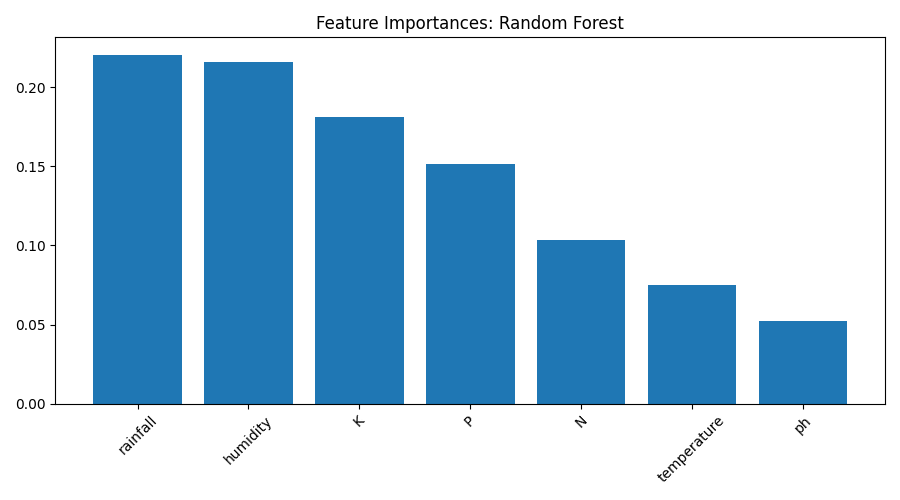
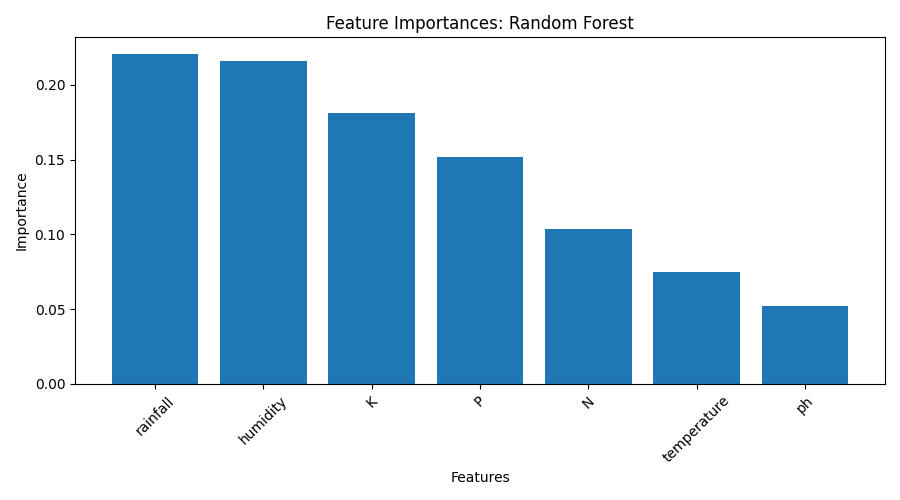
feat: add new models

diff --git a/model/train_model.py b/model/train_model.py
@@ -84,8 +84,21 @@ def plot_eda(df: pd.DataFrame) -> None:
     plt.figure(figsize=(10, 8))
     sns.heatmap(df[numeric_cols].corr(), annot=True, cmap="coolwarm")
     plt.title("Correlation Matrix")
+    plt.xlabel("Features")
+    plt.ylabel("Features")
     plt.tight_layout()
     plt.savefig(os.path.join(PLOTS_DIR, "correlation.png"))
+    plt.close()
+
+    # Boxplot for all features
+    plt.figure(figsize=(12, 7))
+    sns.boxplot(data=df[numeric_cols])
+    plt.title("Boxplot of Features")
+    plt.xlabel("Features")
+    plt.ylabel("Value")
+    plt.xticks(rotation=30)
+    plt.tight_layout()
+    plt.savefig(os.path.join(PLOTS_DIR, "boxplot_features.png"))
     plt.close()
 
 
@@ -186,6 +199,7 @@ def train() -> None:
         plt.figure(figsize=(9, 5))
         sns.barplot(x=list(results.keys()), y=list(results.values()), color="seagreen")
         plt.ylabel("Accuracy")
+        plt.xlabel("Model")
         plt.title("Model Accuracy Comparison")
         plt.xticks(rotation=20)
         plt.ylim(0, 1)
@@ -203,6 +217,8 @@ def train() -> None:
             ordered_features = np.array(FEATURE_COLUMNS)[indices]
             plt.xticks(range(len(importances)), ordered_features, rotation=45)
             plt.title(f"Feature Importances: {name}")
+            plt.xlabel("Features")
+            plt.ylabel("Importance")
             plt.tight_layout()
             filename = f"feature_importance_{name.replace(' ', '_').lower()}.png"
             plt.savefig(os.path.join(PLOTS_DIR, filename))
@@ -225,7 +241,54 @@ def train() -> None:
         .unstack(fill_value=0)
         .to_dict("index")
     )
+
     joblib.dump(cluster_map, os.path.join(ARTIFACTS_DIR, "cluster_map.pkl"))
+
+    # Visualize cluster_map as a heatmap for interpretability
+    try:
+        import pandas as pd
+        cluster_map_df = pd.DataFrame(cluster_map).T.fillna(0)
+        plt.figure(figsize=(min(18, 2+0.5*len(cluster_map_df.columns)), 1+0.4*len(cluster_map_df)))
+        sns.heatmap(cluster_map_df, annot=True, fmt=".2f", cmap="YlGnBu")
+        plt.title("Cluster-Label Distribution Heatmap")
+        plt.xlabel("Label (Crop)")
+        plt.ylabel("Cluster")
+        plt.tight_layout()
+        plt.savefig(os.path.join(PLOTS_DIR, "cluster_map_heatmap.png"))
+        plt.close()
+    except Exception as exc:
+        print(f"Could not generate cluster_map heatmap: {exc}")
+
+    # Visualize KMeans clusters using first two principal components (if >2 features)
+    try:
+        from sklearn.decomposition import PCA
+        pca = PCA(n_components=2)
+        X_pca = pca.fit_transform(X_full_scaled)
+        plt.figure(figsize=(10, 7))
+        scatter = plt.scatter(X_pca[:, 0], X_pca[:, 1], c=clusters, cmap="tab20", alpha=0.7)
+        plt.title(f"KMeans Clusters (n={n_clusters})")
+        plt.xlabel("Principal Component 1")
+        plt.ylabel("Principal Component 2")
+        legend1 = plt.legend(*scatter.legend_elements(), title="Cluster")
+        plt.gca().add_artist(legend1)
+        plt.tight_layout()
+        plt.savefig(os.path.join(PLOTS_DIR, "kmeans_clusters.png"))
+        plt.close()
+    except Exception as exc:
+        print(f"Could not generate KMeans cluster plot: {exc}")
+
+    # Save a countplot of cluster assignments
+    try:
+        plt.figure(figsize=(8, 5))
+        sns.countplot(x=clusters)
+        plt.title("KMeans Cluster Counts")
+        plt.xlabel("Cluster")
+        plt.ylabel("Count")
+        plt.tight_layout()
+        plt.savefig(os.path.join(PLOTS_DIR, "kmeans_cluster_counts.png"))
+        plt.close()
+    except Exception as exc:
+        print(f"Could not generate KMeans cluster count plot: {exc}")
 
     print("Training pipeline completed successfully.")
 

diff --git a/model/test_load_kmeans.py b/model/test_load_kmeans.py
@@ -1,0 +1,7 @@
+import joblib
+
+try:
+    kmeans = joblib.load('model/kmeans.pkl')
+    print('KMeans model loaded successfully:', kmeans)
+except Exception as e:
+    print('Error loading kmeans.pkl:', e)
